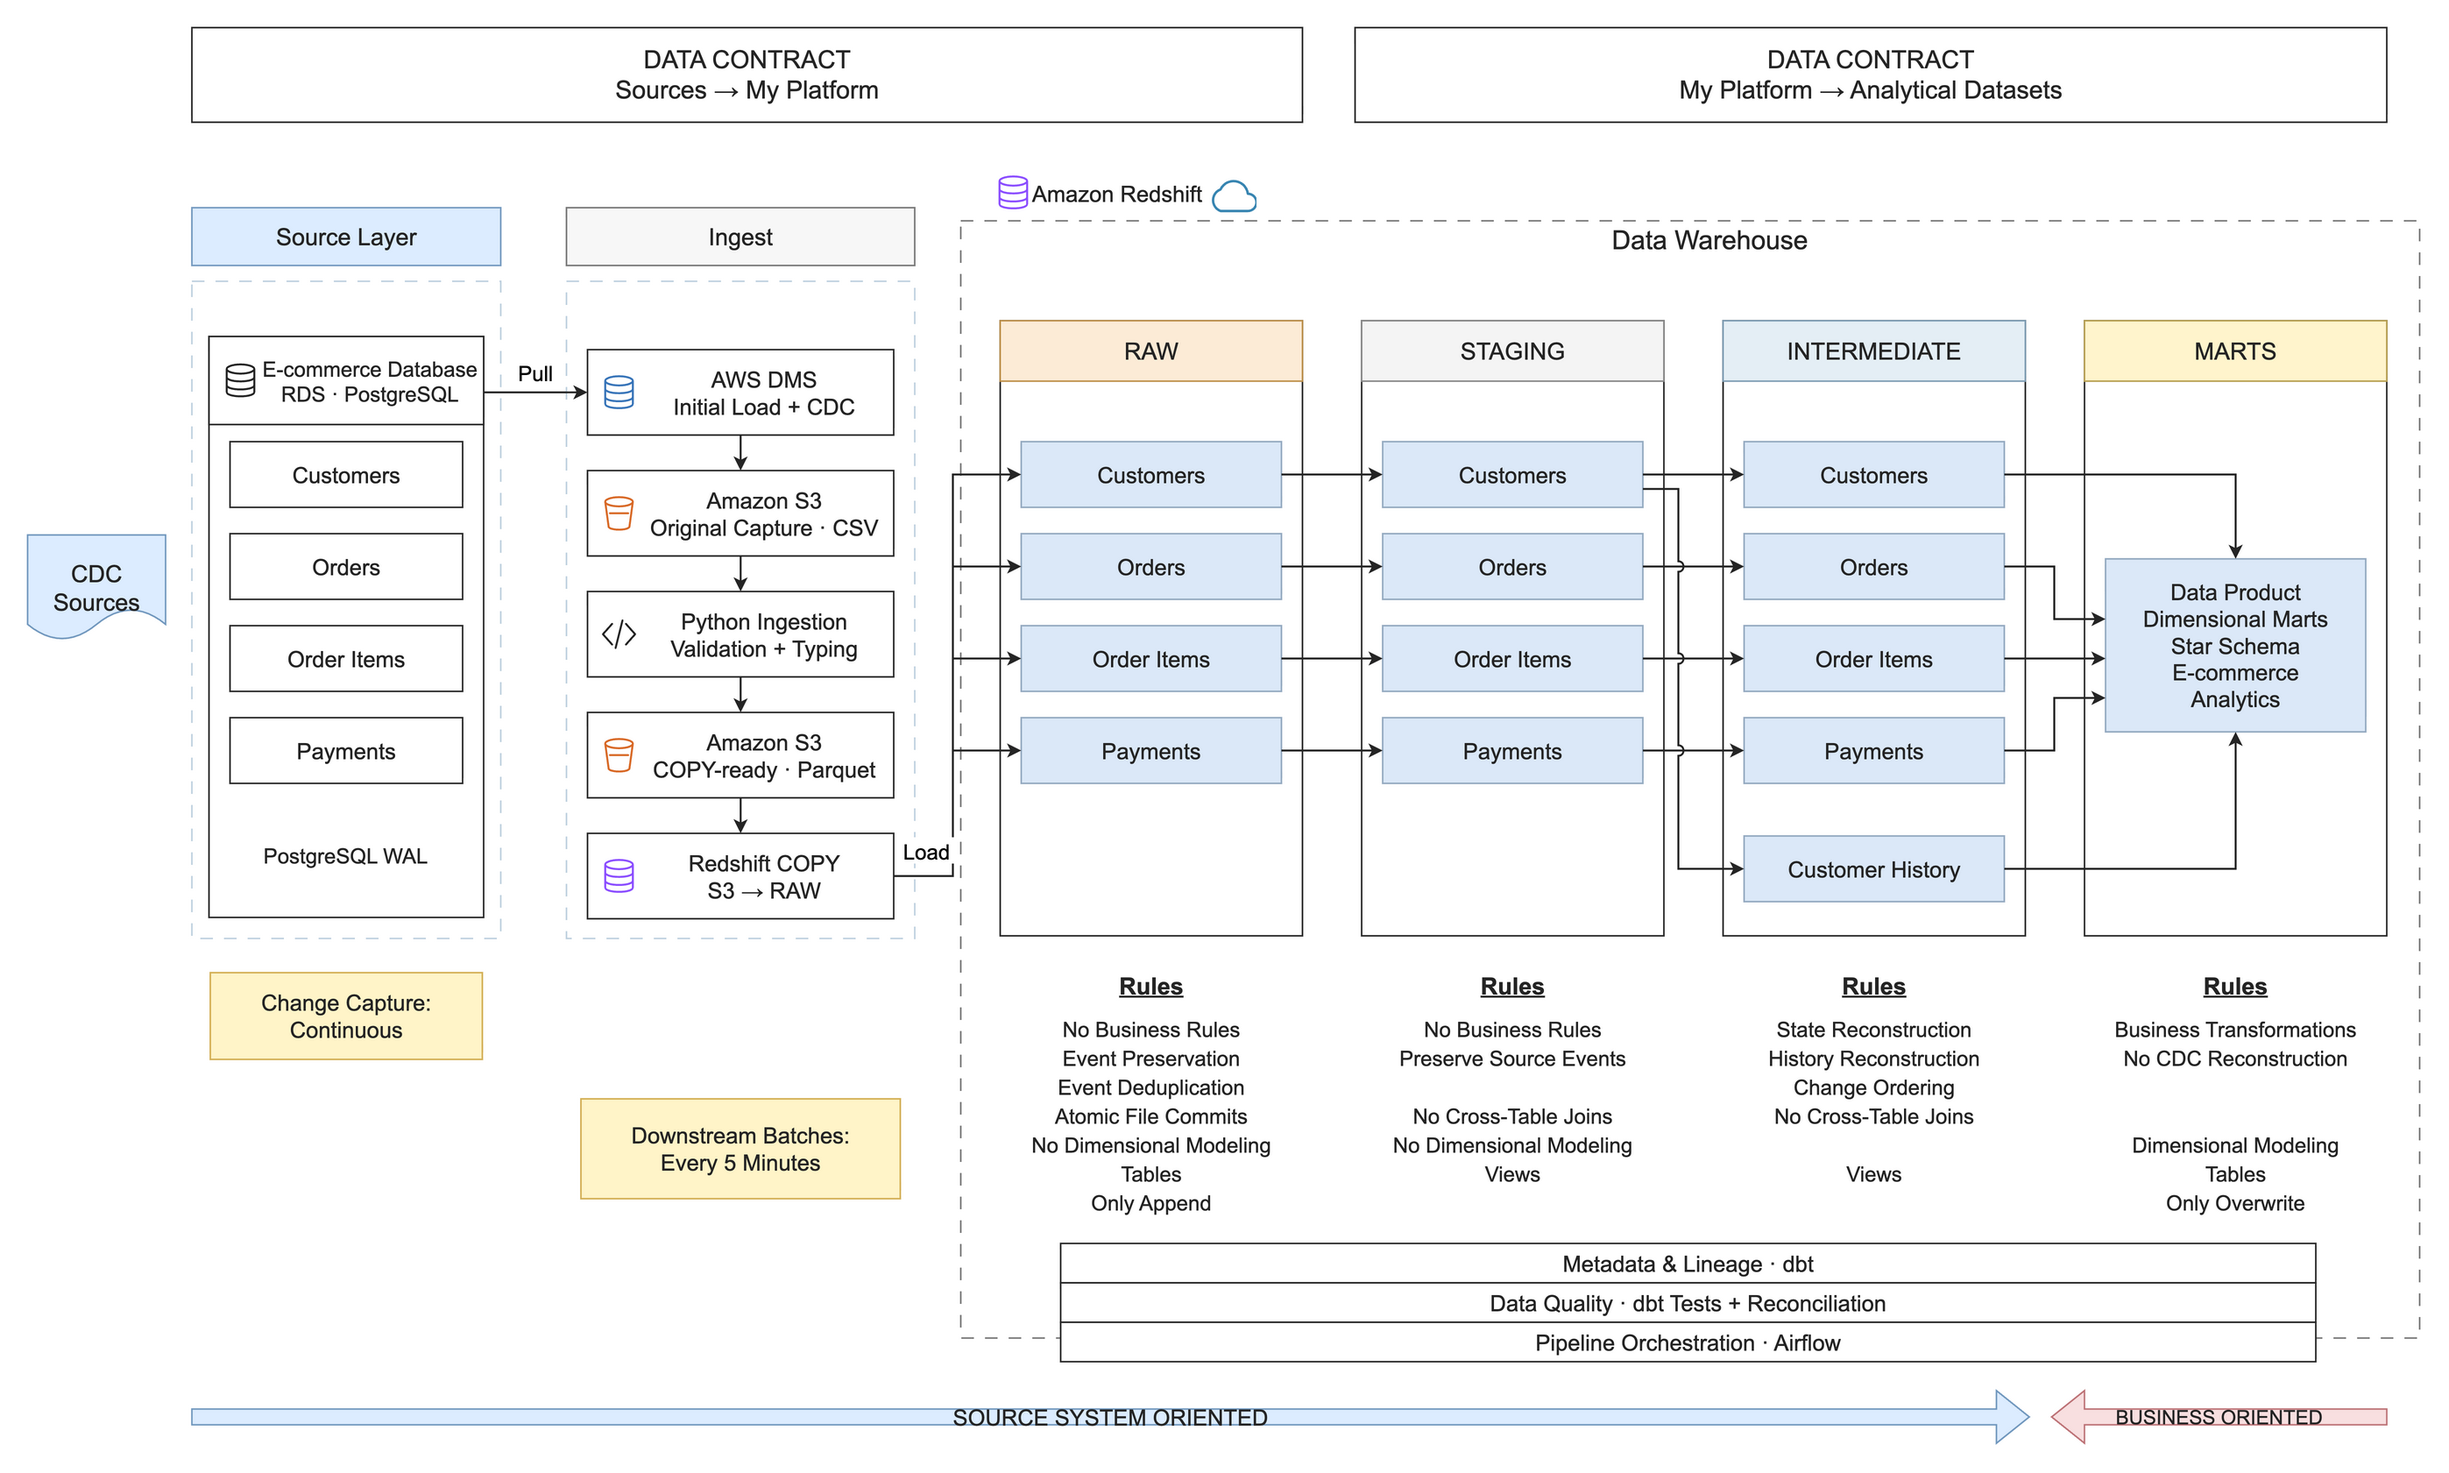
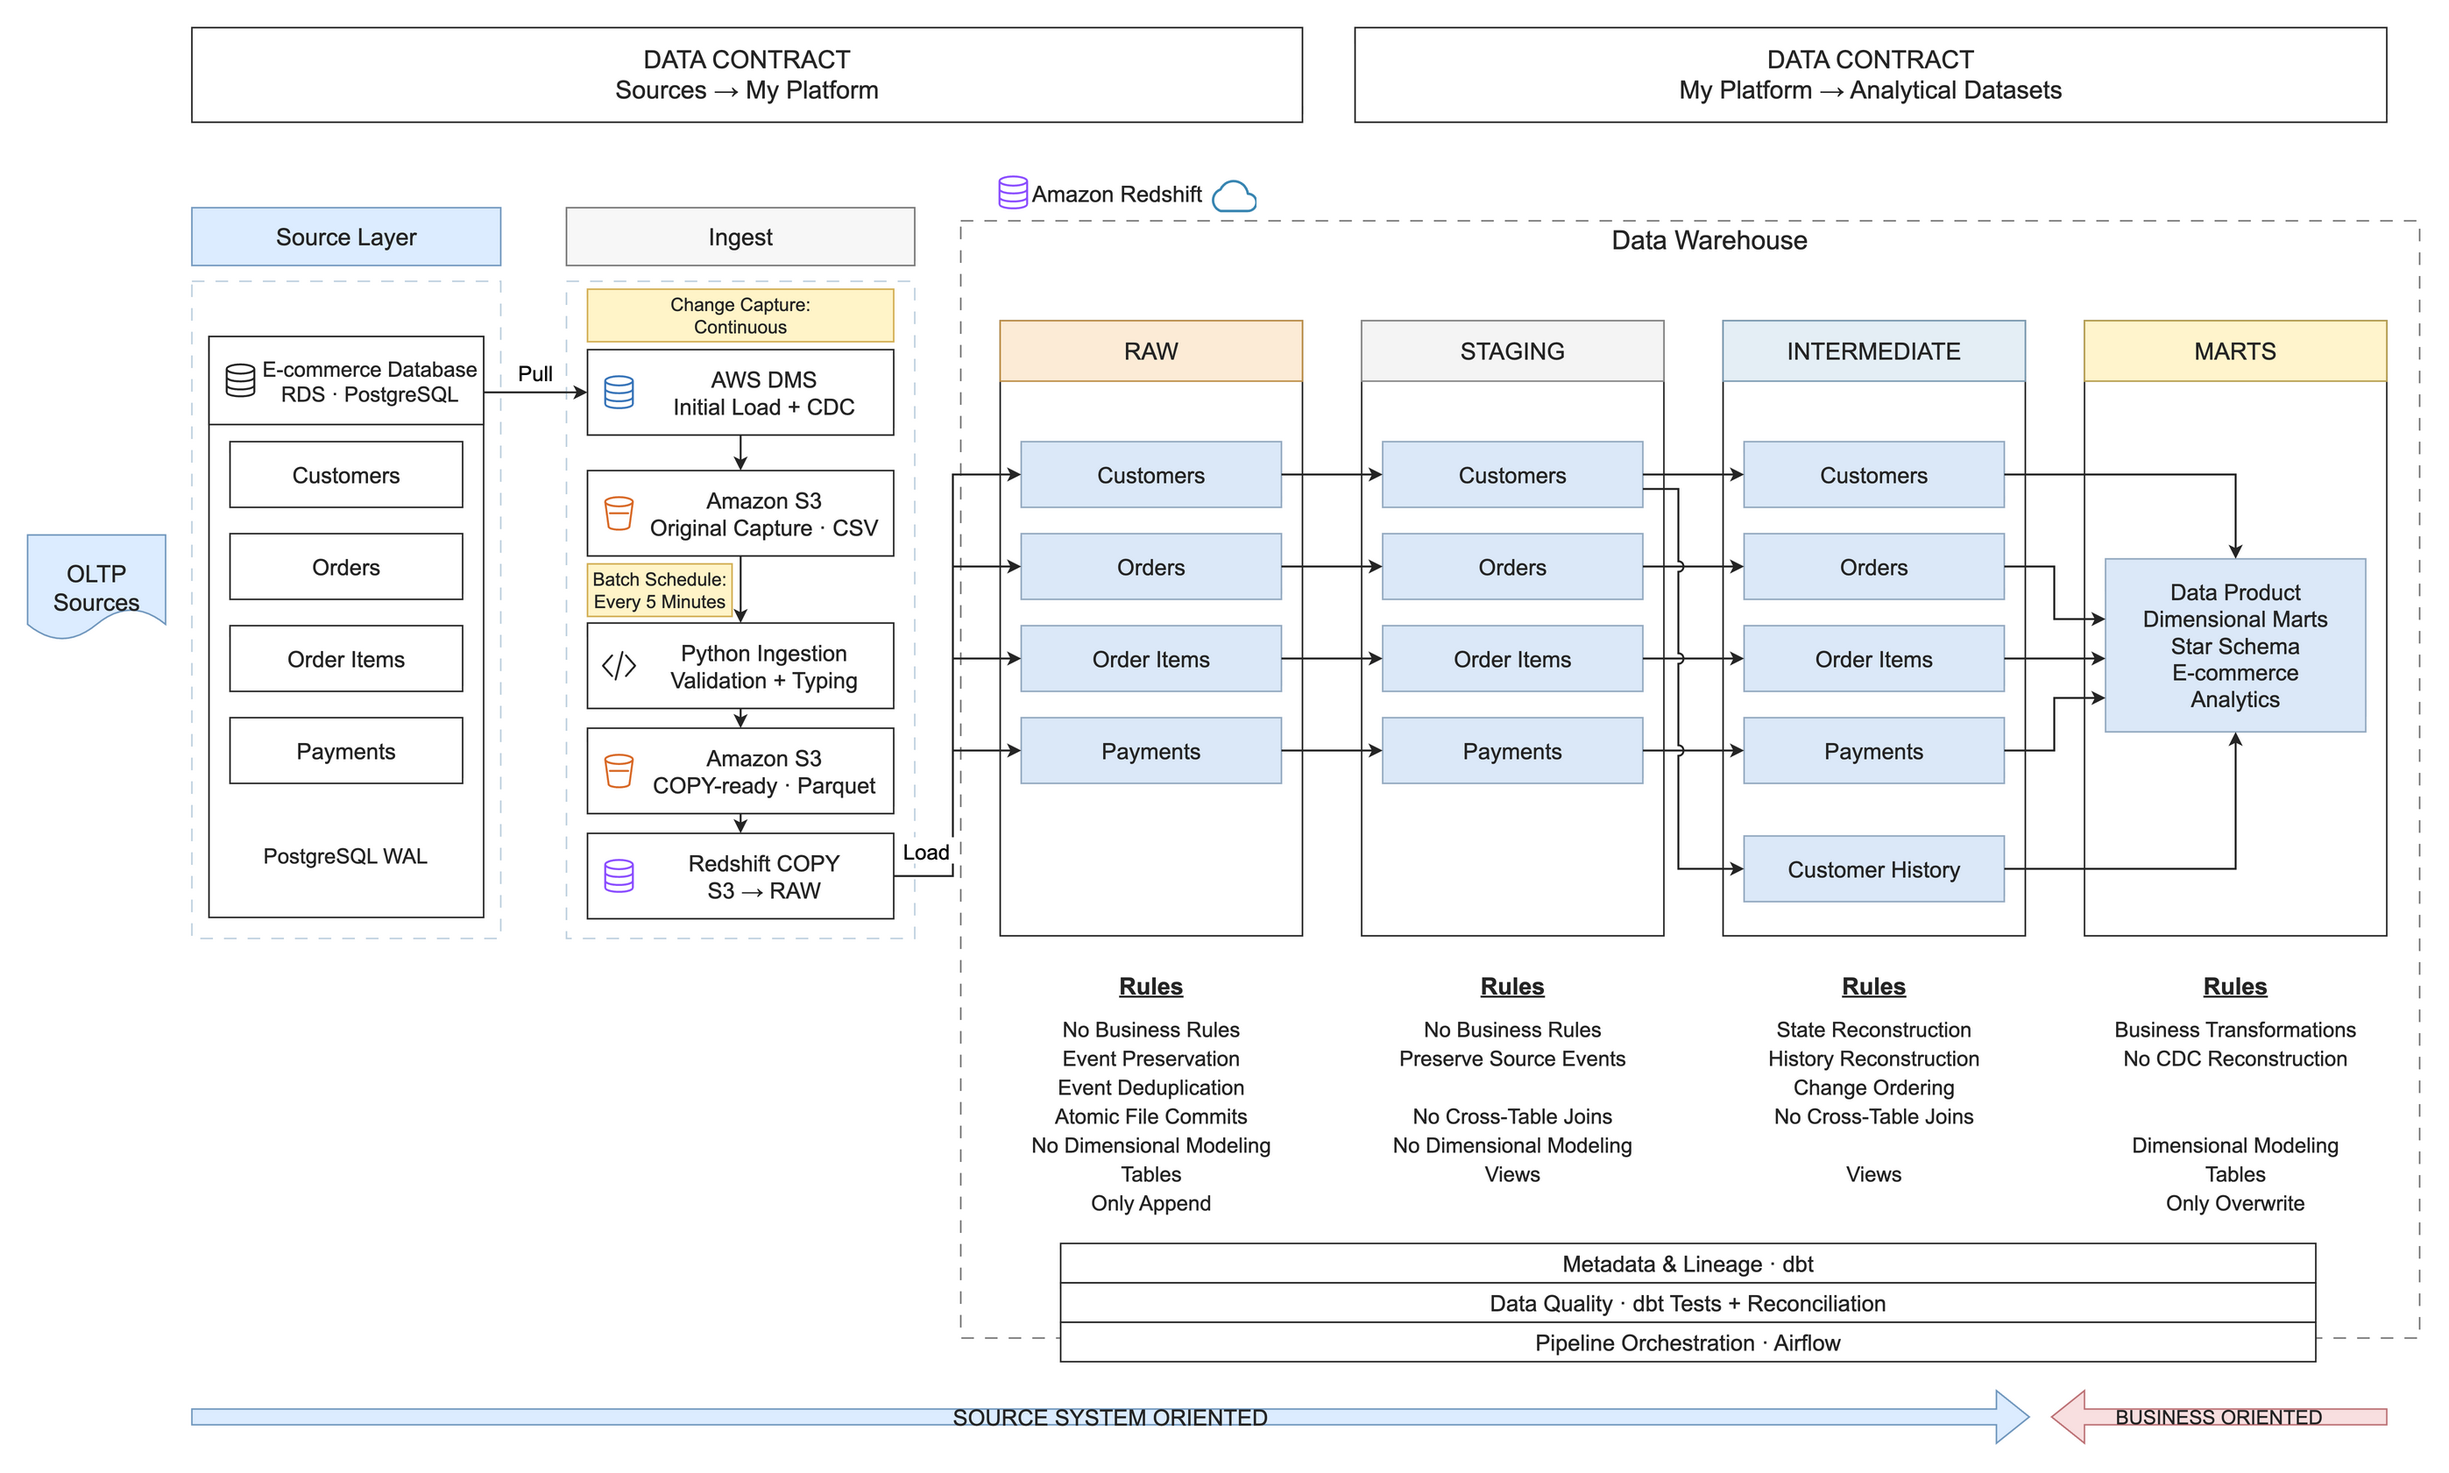
Publish CDC data architecture in README

diff --git a/README.md b/README.md
@@ -32,6 +32,10 @@ AWS DMS reads to capture these changes.
   matches the source. dbt tests check the models. GitHub CI uses temporary
   PostgreSQL test databases and checks Airflow task states.
 
+## Data architecture
+
+![E-commerce CDC data architecture: PostgreSQL sources, change capture and ingestion, and raw, staging, intermediate, and marts layers in Redshift](docs/images/data-architecture.png)
+
 ## Vendor architecture
 
 ![E-commerce CDC Pipeline vendor architecture: RDS PostgreSQL, AWS DMS, S3, Redshift, dbt, and Airflow running in Docker](docs/images/vendor-architecture.png)
